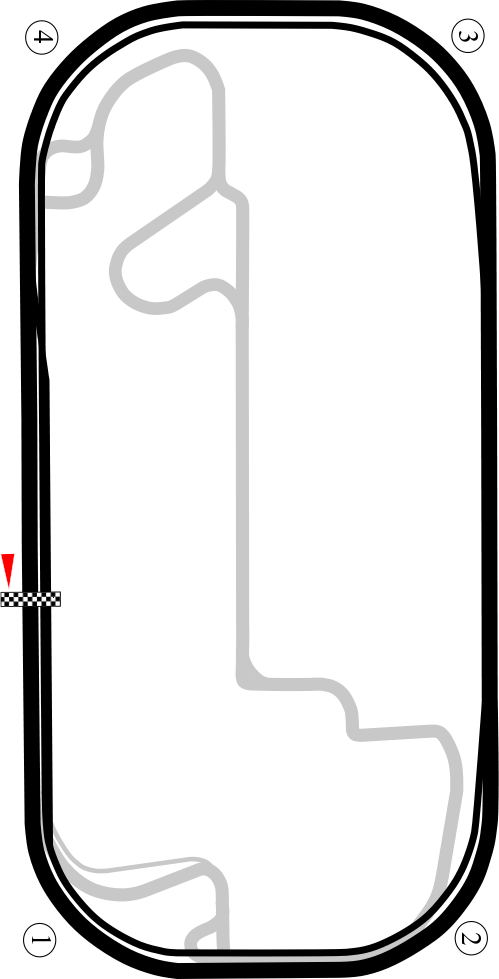
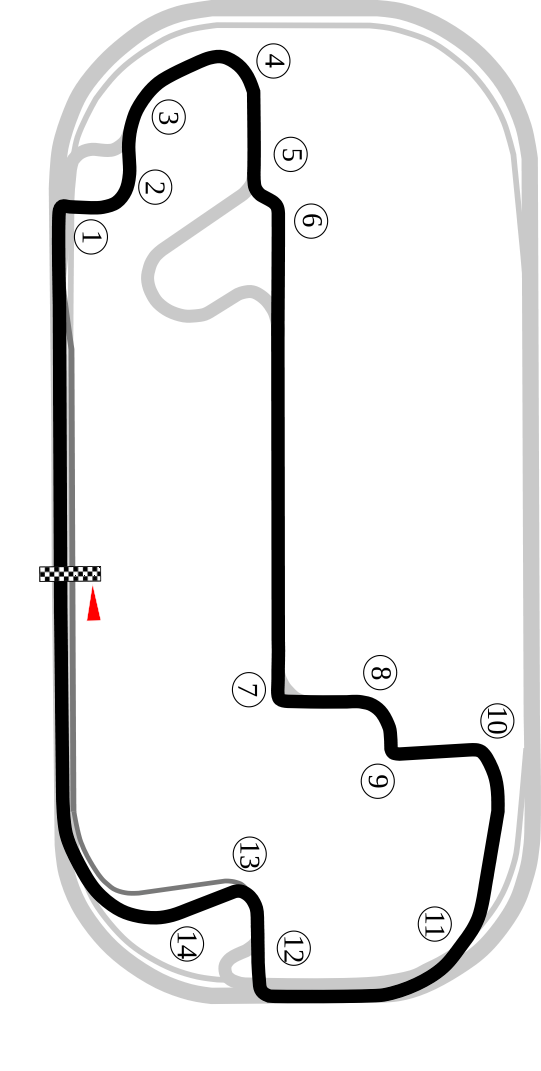
fix overlay and rotate map

Changed region(s): [[0.0, 0.0, 1.0, 1.0], [0.3006, 0.2145, 0.3307, 0.2451]]

diff --git a/src/Maps.js b/src/Maps.js
@@ -40,16 +40,51 @@ const Maps = () => {
     };
   }, []);
 
+  const mapStyles = [  //removes labels from map
+    {
+      featureType: "all",
+      elementType: "labels",
+      stylers: [{ visibility: "off" }],
+    },
+    {
+      featureType: "road",
+      elementType: "labels",
+      stylers: [{ visibility: "off" }],
+    },
+    {
+      featureType: "poi",
+      elementType: "labels",
+      stylers: [{ visibility: "off" }],
+    },
+  
+  ];
   return (
-    <div style={{ position: "relative", width: "100%", height: "600px" }}>
+    <div style={{ 
+      display: "flex",
+      justifyContent: "center",
+      alignItems: "center",
+      height: "100vh",  
+      width: "100%",
+      position: "relative",
+      marginTop: "-300px", // Moves the widget UP
+      marginLeft: "200px", // Moves the widget RIGHT
+      transform: "rotate(270deg)", 
+      transformOrigin: "50% 50%",
+      }}>
       <APIProvider apiKey={API_KEY}>
         <Map
-          style={{ width: "100%", height: "100%" }}
-          center={{ lat: 39.798, lng: -86.235 }}
-          zoom={15}
-          mapTypeId="satellite"
+          style={{ width: "100%", height: "80vh" }}
+          center={{ lat: 39.795, lng: -86.235 }}
+          zoom={15.2}
+         // mapTypeId="satellite"
           gestureHandling={"greedy"}
           disableDefaultUI={false}
+          options={{ styles: mapStyles ,
+            mapTypeControl: false,
+            streetViewControl: false,
+            zoomControl: false, 
+            fullscreenControl: false, }} 
+         
           onLoad={(map) => {
             setTimeout(() => {
               map.setHeading(90);
@@ -65,12 +100,12 @@ const Maps = () => {
         alt="Track Overlay"
         style={{
           position: "absolute",
-          top: "50%", // Center vertically
-          left: "50%", // Center horizontally
-          transform: "translate(-50%, -30%)", // Ensures exact centering
-          width: "80%", // Adjust size if needed
-          maxWidth: "200px", // Prevents oversized images
-          opacity: 0.7, // Adjust transparency
+          top: "50%",  
+          left: "50%", 
+          transform: "translate(-50%, -47%)", 
+          height: "auto",
+          maxWidth: "260px",
+          opacity: 0.7,
           pointerEvents: "none",  
         }}
       />
